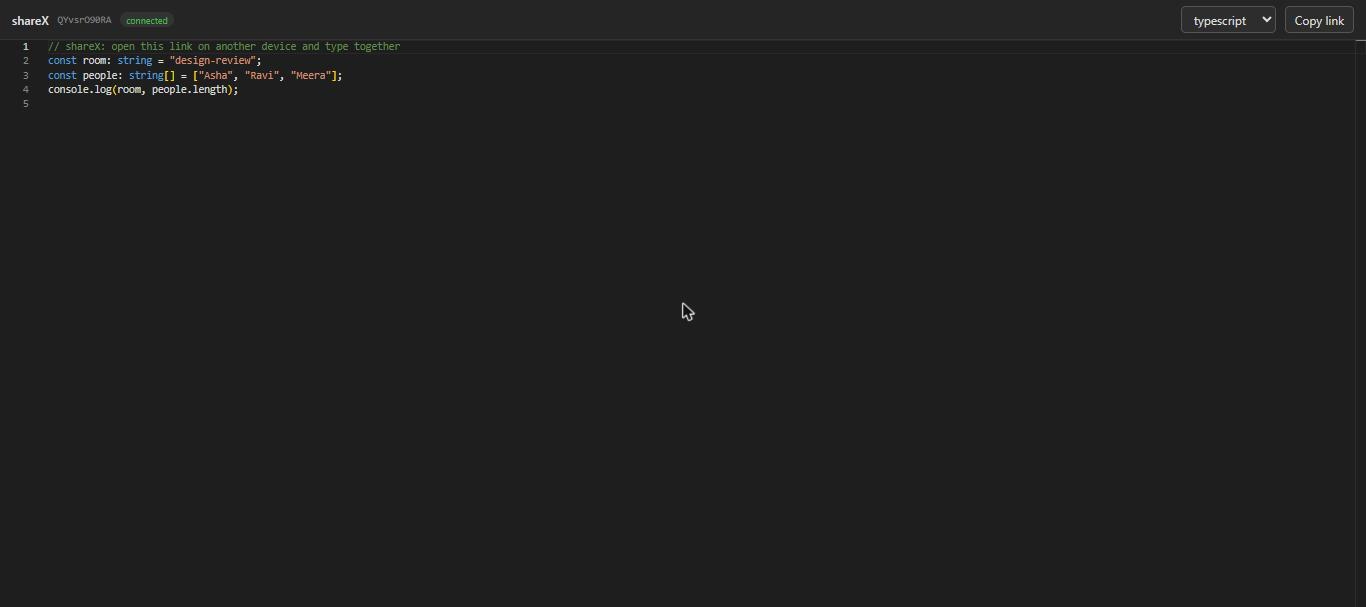
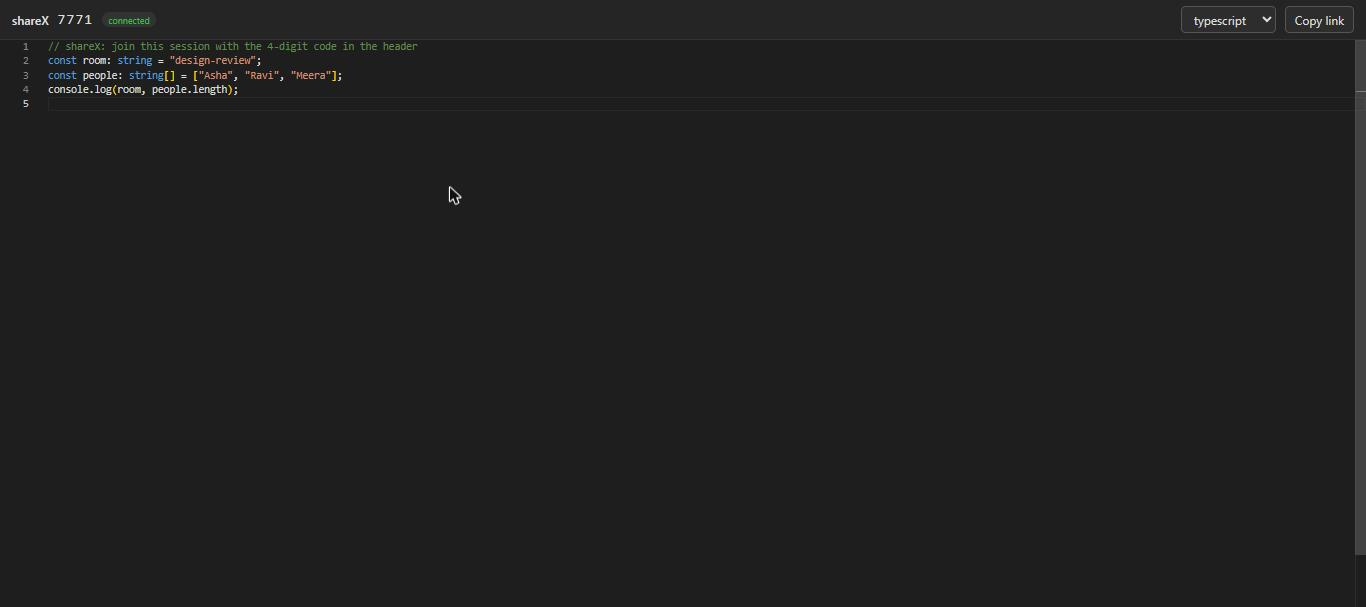
docs: update README for 4-digit codes and limits
Document the new codes, limits, error messages, environment variables,
design trade-offs and limitations, and refresh the screenshot.

diff --git a/README.md b/README.md
@@ -30,14 +30,15 @@ It is built from scratch on plain WebSockets, without a collaboration framework.
 
 ## Features
 
-- **One-click sessions**: a new session gets a random 10-character ID and a shareable URL (`/s/<id>`).
+- **Short 4-digit codes**: a new session gets a code like `4580` and a link (`/4580`). Anyone can join by typing the code on the home page.
 - **Live sync**: text typed in one tab appears in every other tab of the same session within about 100 ms.
 - **Late joiners catch up**: anyone who opens the link receives the current document immediately.
 - **Monaco editor**: the editor from VS Code, with syntax highlighting for 10 languages and a language switcher.
 - **Connection status**: a live badge shows connecting / connected / reconnecting, and the client reconnects on its own.
 - **Isolated rooms**: each session is its own room, and updates never leak between sessions.
 - **Cursor-friendly updates**: remote changes keep your cursor where it was instead of throwing it to the top.
-- **Defensive server**: unknown sessions are rejected at the WebSocket handshake, malformed messages are ignored, and document size is capped.
+- **Built-in limits**: capped sessions, people per session and document size, rate limiting on creating and joining, and idle sessions expire automatically.
+- **Clear errors**: a full session or an oversized paste shows a message instead of failing silently.
 
 ## Architecture
 
@@ -88,13 +89,14 @@ sequenceDiagram
 | Server → client, on connect | `{ "type": "init", "text": "..." }` |
 | Client → server | `{ "type": "update", "text": "..." }` |
 | Server → other clients in the room | `{ "type": "update", "text": "..." }` |
+| Server → client, on a problem | `{ "type": "error", "code": "too-large" \| "room-full", "max": n }`; a full room is then closed with code `4001` |
 
 ### REST API
 
 | Method | Path | Response |
 |---|---|---|
-| `POST` | `/api/sessions` | `201` `{ "id": "..." }` |
-| `GET` | `/api/sessions/:id` | `200` `{ "id", "createdAt" }`, or `404` |
+| `POST` | `/api/sessions` | `201` `{ "id": "4580" }`, `429` when rate limited, `503` when the server is full |
+| `GET` | `/api/sessions/:id` | `200` `{ "id", "createdAt" }`, `404`, or `429` when rate limited |
 | `GET` | `/api/health` | `200` `{ "ok": true }` |
 
 ## Tech stack
@@ -104,7 +106,7 @@ sequenceDiagram
 | Language | TypeScript (strict) | Catches message-shape and null bugs at compile time |
 | Server | Node.js, Express | Small REST surface, easy to reason about |
 | Realtime | `ws` | Plain WebSockets, no hidden abstraction over rooms or reconnects |
-| IDs | `nanoid(10)` | Unguessable URLs, so the link itself is the access key |
+| IDs | `crypto.randomInt` | Short 4-digit codes that are easy to say out loud, protected by limits and expiry |
 | Client | React, Vite, React Router | Fast dev loop, simple routing between home and session |
 | Editor | Monaco (`@monaco-editor/react`) | The VS Code editor component |
 | Repo | npm workspaces | One install and one repo for `server` and `client` |
@@ -134,6 +136,12 @@ In development, Vite proxies `/api` and `/ws` to the server, so the browser only
 | Variable | Where | Default | Purpose |
 |---|---|---|---|
 | `PORT` | server | `3001` | Port the server listens on |
+| `MAX_SESSIONS` | server | `5000` | Live sessions allowed at once |
+| `SESSION_IDLE_MINUTES` | server | `30` | Idle time after which an empty session expires |
+| `MAX_CLIENTS_PER_ROOM` | server | `20` | People allowed in one session |
+| `CREATE_LIMIT_PER_MIN` | server | `10` | Sessions one client can create per minute |
+| `LOOKUP_LIMIT_PER_MIN` | server | `30` | Joins and lookups one client can make per minute |
+| `MISS_LIMIT_PER_MIN` | server | `300` | Failed lookups allowed across all clients per minute (slows code guessing) |
 | `API_TARGET` | client (dev) | `http://localhost:3001` | Where the Vite dev proxy forwards `/api` and `/ws` |
 | `VITE_WS_URL` | client (build) | same origin | WebSocket base URL when the server is hosted separately, e.g. `wss://api.example.com` |
 
@@ -162,7 +170,9 @@ shareX/
 ├── server/
 │   └── src/
 │       ├── index.ts        # Express routes, static client, HTTP server, WebSocket upgrade and messages
-│       ├── sessions.ts     # SessionStore: in-memory sessions
+│       ├── config.ts       # Limits, read from environment variables
+│       ├── rateLimit.ts    # RateLimiter and client IP detection
+│       ├── sessions.ts     # SessionStore: 4-digit codes, capacity, idle expiry
 │       └── rooms.ts        # RoomManager: join, leave, broadcast
 ├── client/
 │   └── src/
@@ -178,7 +188,8 @@ shareX/
 - **Sessions and rooms are separate classes.** `SessionStore` owns the data and `RoomManager` owns live connections. Replacing the in-memory `Map` with Redis or a database only touches one of them.
 - **Debounced full-text updates.** Each message carries the whole document, which keeps the protocol and the code small. A 100 ms debounce collapses a burst of keystrokes into one message.
 - **No echo loop.** When a remote update is written into the editor, a flag stops Monaco's change event from sending it straight back to the server.
-- **Random URL as the access key.** There are no accounts. Anyone with the link can join, which matches how tools like this are used.
+- **Short public codes, protected by limits.** There are only 10,000 four-digit codes, so they can be guessed. The server makes that slow and noisy instead of pretending it is impossible: per-client and global rate limits on lookups, a cap on live sessions and idle expiry that frees codes quickly.
+- **Errors over silent drops.** The server tells the client when an update is too large or a room is full, so the UI can explain it.
 - **One port for REST and WebSocket.** Simpler to deploy and to proxy, and it fits platforms that expose a single port.
 
 ## Known limitations
@@ -188,7 +199,8 @@ These are deliberate trade-offs of the current version, not bugs.
 - **Simultaneous typing is last-write-wins.** Because each update replaces the whole text, if two people type at the same instant, the update that reaches the server last wins and the other person's keystrokes in that window can be lost. Fixing this properly needs a CRDT or operational transform (see the roadmap).
 - **The language selector is local.** Each user picks their own syntax highlighting; it is not synced between participants.
 - **Sessions live in memory.** Restarting the server clears all sessions.
-- **No access control yet.** Anyone with a session link can read and edit it, so do not paste secrets.
+- **Codes are public.** Anyone who guesses or is given a code can read and edit the session, so do not paste secrets. Password-protected private sessions are on the roadmap.
+- **Rate limits assume one server.** Counters live in memory and the client IP is read from `X-Forwarded-For`, which is good enough for a demo but not for a multi-instance deployment.
 - **No automated tests yet.**
 
 ## Roadmap
@@ -196,9 +208,9 @@ These are deliberate trade-offs of the current version, not bugs.
 - [x] Session creation and REST API
 - [x] WebSocket rooms with live sync
 - [x] Monaco client with language switcher and reconnect
-- [ ] Private sessions protected by a password (bcrypt hash, short-lived join token)
-- [ ] Limits and cleanup: max sessions, max users per room, rate limiting, expiry of idle sessions
-- [ ] Shareable secret code for invite-only access
+- [ ] Private sessions protected by a password and a long unguessable ID (bcrypt hash, short-lived join token)
+- [x] Short 4-digit session codes with a join-by-code box
+- [x] Limits and cleanup: max sessions, max users per room, rate limiting, expiry of idle sessions
 - [x] Hosted demo on Render (single free web service)
 - [ ] CRDT-based sync with [Yjs](https://yjs.dev) to merge concurrent edits and add remote cursors
 - [ ] Persistence (Redis or a database) and automated tests
